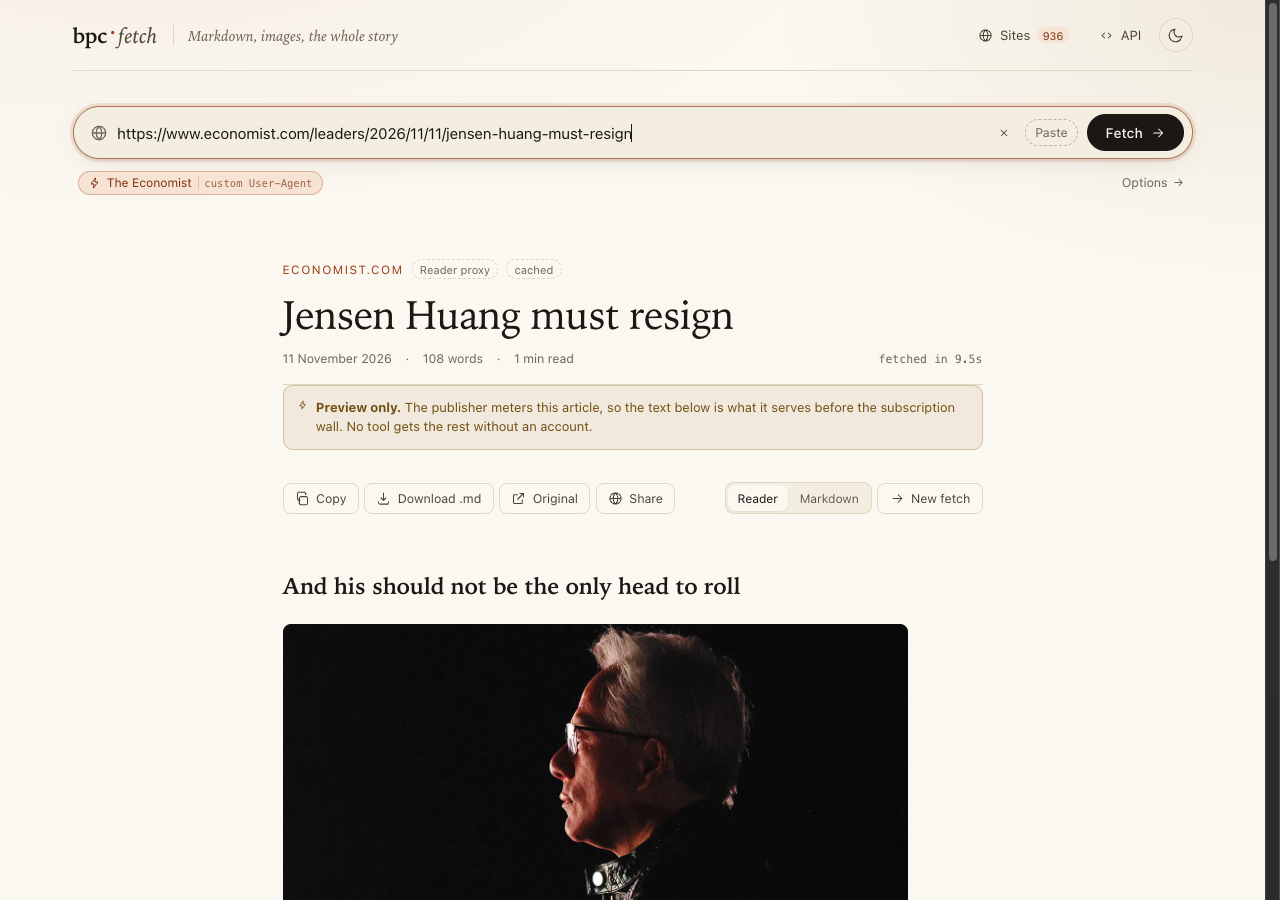
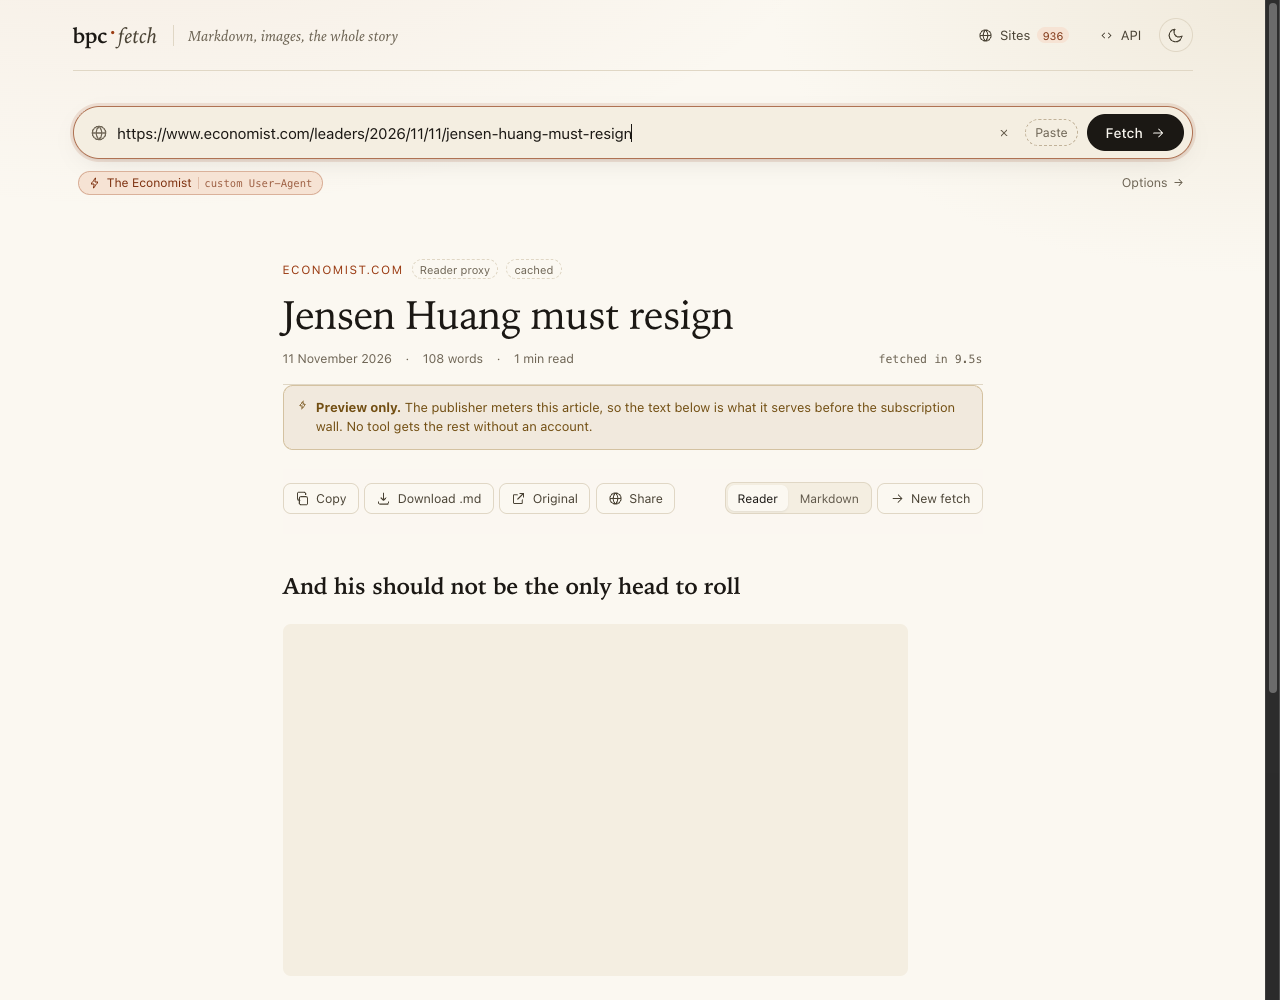
Split paywall signals: specific markers on HTML, broad CTAs on extracted text
Generic CTAs like 'already have an account' appear in every site's login box,
so matching them against raw HTML flagged honest articles as partial. Raw HTML
now only matches specific gate phrasing; the broad set applies to extracted
text, where it belongs. Also reject reader-proxy error payloads and pages whose
source URL doesn't match the request.

diff --git a/src/bpc_web/proxy.py b/src/bpc_web/proxy.py
@@ -14,11 +14,12 @@ from __future__ import annotations
 
 import os
 import re
+from urllib.parse import urlparse
 
 import httpx
 
 from .extract import finalise_markdown
-from .vendor.strategy import looks_paywalled
+from .vendor.strategy import looks_metered
 
 PROXY_BASE = os.getenv("BPC_READER_PROXY_URL", "https://r.jina.ai/")
 PROXY_TIMEOUT = float(os.getenv("BPC_READER_PROXY_TIMEOUT", "45"))
@@ -86,13 +87,28 @@ def prose_window(markdown: str) -> str:
     return "\n\n".join(blocks[start : end + 1])
 
 
+_ERROR_BODY = re.compile(r'^\s*\{\s*"data"\s*:\s*null.{0,400}?"code"', re.DOTALL)
+
+
 def article_from_reader_payload(text: str, url: str, *, windowed: bool) -> dict | None:
     """Turn a Jina response into an article dict, or None if nothing usable."""
+    if _ERROR_BODY.match(text):
+        return None
+
     meta, body = parse_reader_payload(text)
+
+    # The proxy caches by URL; if it hands back a different page, drop it rather
+    # than showing one article's body under another article's link.
+    source = meta.get("url") or ""
+    if source:
+        requested_path = urlparse(url).path.rstrip("/")
+        source_path = urlparse(source).path.rstrip("/")
+        if requested_path and source_path and requested_path != source_path:
+            return None
     if windowed:
         body = prose_window(body)
 
-    preview = looks_paywalled(body)
+    preview = looks_metered(body)
     markdown = finalise_markdown(body, url)
     if len(markdown) < 200:
         return None

diff --git a/tests/test_proxy.py b/tests/test_proxy.py
@@ -69,8 +69,11 @@ def test_prose_window_keeps_the_story_only():
     assert "Sign in" not in window
 
 
+ECONOMIST_URL = "https://www.economist.com/leaders/2026/11/11/jensen-huang-must-resign"
+
+
 def test_article_from_payload_flags_preview():
-    article = article_from_reader_payload(PAYLOAD, "https://www.economist.com/x", windowed=True)
+    article = article_from_reader_payload(PAYLOAD, ECONOMIST_URL, windowed=True)
     assert article is not None
     assert article["title"] == "Jensen Huang must resign"
     assert article["paywalled_preview"] is True
@@ -79,6 +82,21 @@ def test_article_from_payload_flags_preview():
     assert "free trial" not in article["markdown"].lower()
     assert "some other story" not in article["markdown"].lower()
     assert article["word_count"] > 0
+
+
+def test_payload_for_another_url_is_rejected():
+    # Guards against a proxy cache handing back the wrong article.
+    assert (
+        article_from_reader_payload(
+            PAYLOAD, "https://www.economist.com/somewhere/else", windowed=True
+        )
+        is None
+    )
+
+
+def test_error_payload_is_rejected():
+    error = '{"data":null,"code":422,"name":"AssertionFailureError","status":42206,"message":"No content"}'
+    assert article_from_reader_payload(error, ECONOMIST_URL, windowed=False) is None
 
 
 def test_article_from_payload_rejects_empty():

diff --git a/src/bpc_web/extract.py b/src/bpc_web/extract.py
@@ -12,7 +12,7 @@ from urllib.parse import urljoin, urlparse
 
 from bs4 import BeautifulSoup
 
-from .vendor.strategy import PAYWALL_MARKERS, looks_paywalled
+from .vendor.strategy import METERED_CTA_MARKERS, looks_metered
 
 MIN_ARTICLE_CHARS = 220
 
@@ -162,7 +162,7 @@ def strip_paywall_text(text: str) -> str:
         return ""
     lower = text.lower()
     cut = len(text)
-    for marker in PAYWALL_MARKERS:
+    for marker in METERED_CTA_MARKERS:
         idx = lower.find(marker)
         if idx > 120:  # ignore matches in the first sentence (legit prose)
             cut = min(cut, idx)
@@ -455,7 +455,7 @@ def extract_article(html: str, url: str, dom: dict | None = None) -> dict:
         if inline_body and len(inline_body) > len(markdown) * 1.15:
             markdown = inline_body
 
-    paywalled_preview = looks_paywalled(markdown)
+    paywalled_preview = looks_metered(markdown)
     markdown = finalise_markdown(markdown, url)
 
     words = len(re.findall(r"\b[\w'’-]+\b", markdown))

diff --git a/src/bpc_web/fetcher.py b/src/bpc_web/fetcher.py
@@ -25,6 +25,7 @@ from .vendor.strategy import (
     build_headers,
     googlebot_headers,
     looks_blocked,
+    looks_metered,
     looks_paywalled,
 )
 
@@ -522,7 +523,7 @@ def _finish(article, via, strategy_info, attempts, started) -> FetchResult:
     if article and not article.get("images"):
         article["images"] = re.findall(r"!\[[^\]]*\]\(([^)\s]+)\)", article.get("markdown", ""))
     words = article.get("word_count", 0)
-    preview = bool(article.get("paywalled_preview")) or looks_paywalled(article.get("markdown", ""))
+    preview = bool(article.get("paywalled_preview")) or looks_metered(article.get("markdown", ""))
     confidence = (
         "high"
         if words >= 250 and via in ("Direct request", "Crawler User-Agent")
